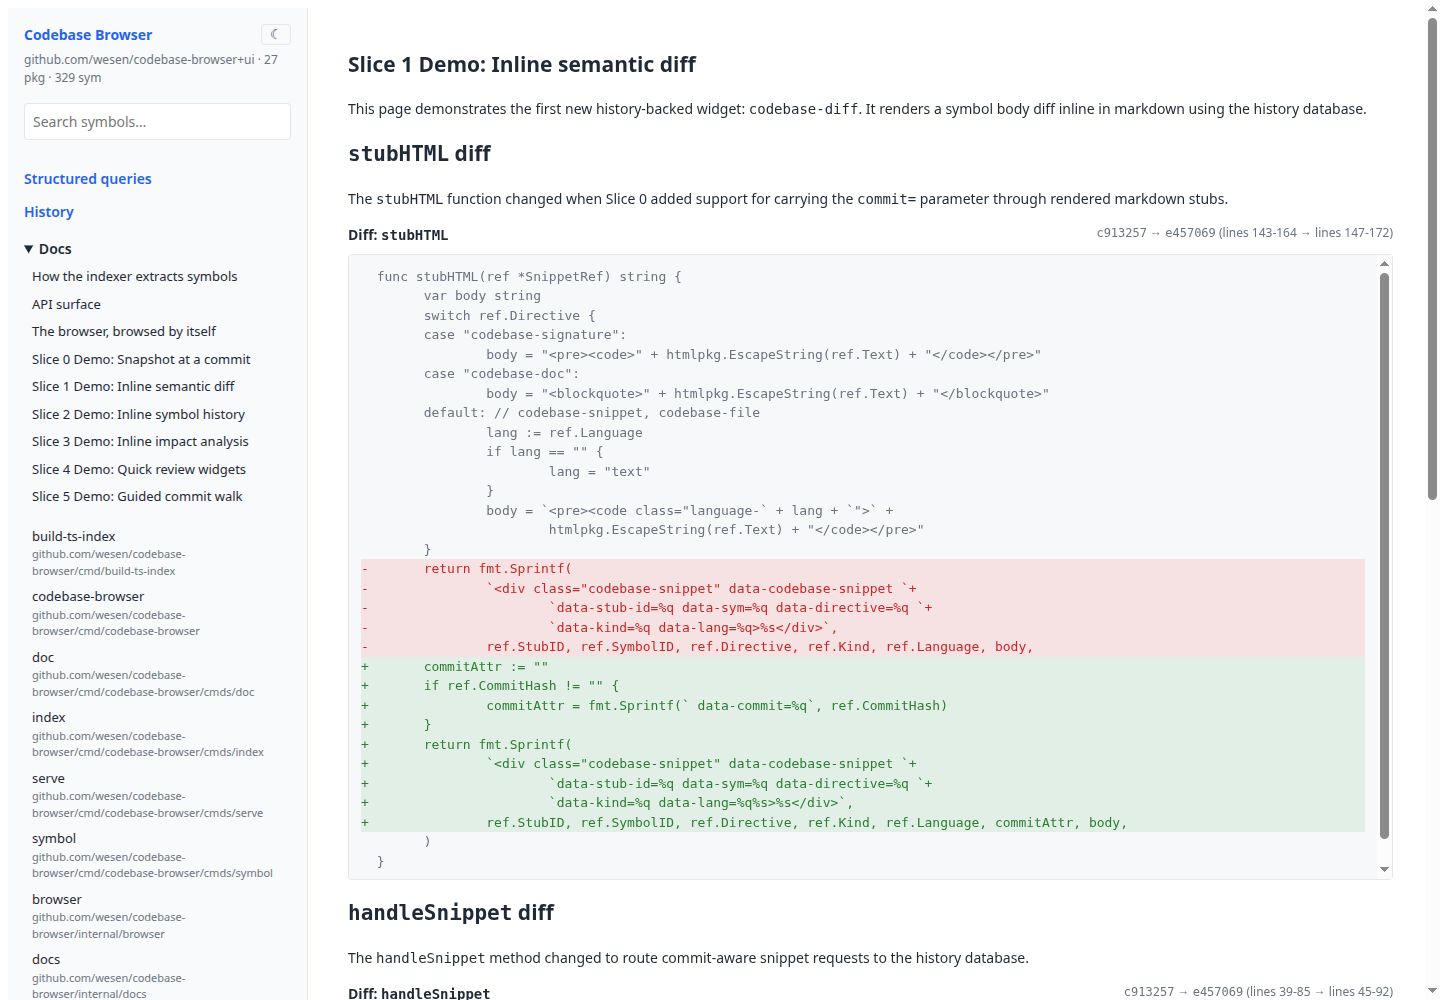
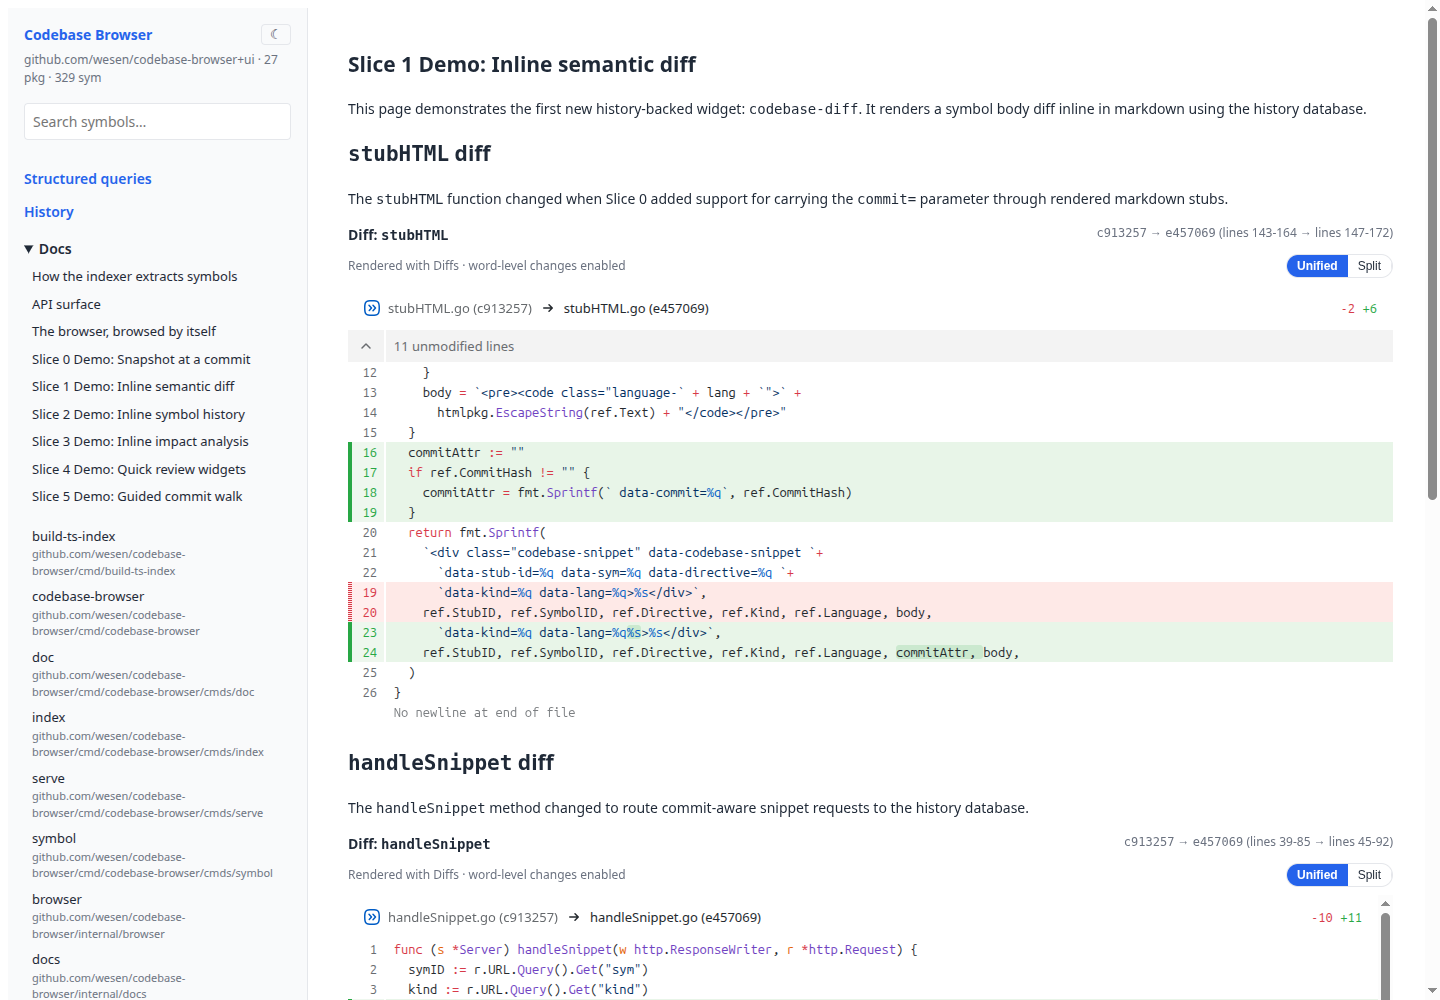
perf(ui): lazy load pierre diffs renderer
Move the @pierre/diffs import behind React.lazy so Shiki/Diffs are split out
of the initial app chunk and only loaded on pages that render diff widgets.

Also refresh README screenshots for the updated Diffs UI and document the
build impact and validation in the GCB-011 diary.

Changed region(s): [[0.2188, 0.248, 0.9688, 1.0], [0.6562, 0.341, 0.7188, 0.403], [0.5312, 0.465, 0.5938, 0.496]]

diff --git a/ui/src/features/diff/DiffsUnifiedDiff.tsx b/ui/src/features/diff/DiffsUnifiedDiff.tsx
@@ -1,6 +1,9 @@
 import React from 'react';
-import { MultiFileDiff } from '@pierre/diffs/react';
-import type { FileContents } from '@pierre/diffs/react';
+import type { DiffsUnifiedDiffRendererProps } from './DiffsUnifiedDiffRenderer';
+
+const LazyDiffsUnifiedDiffRenderer = React.lazy(() =>
+  import('./DiffsUnifiedDiffRenderer').then((mod) => ({ default: mod.DiffsUnifiedDiffRenderer })),
+);
 
 interface DiffsUnifiedDiffProps {
   name: string;
@@ -21,63 +24,21 @@ export function DiffsUnifiedDiff({
   newLabel,
   maxHeight = '60vh',
 }: DiffsUnifiedDiffProps) {
-  const [diffStyle, setDiffStyle] = React.useState<'unified' | 'split'>('unified');
-  const oldFile = React.useMemo<FileContents>(() => ({
-    name: oldLabel ? `${name} (${oldLabel})` : name,
-    contents: oldText,
-    lang: language,
-    cacheKey: oldLabel ? `${name}:${oldLabel}` : undefined,
-  }), [language, name, oldLabel, oldText]);
-
-  const newFile = React.useMemo<FileContents>(() => ({
-    name: newLabel ? `${name} (${newLabel})` : name,
-    contents: newText,
-    lang: language,
-    cacheKey: newLabel ? `${name}:${newLabel}` : undefined,
-  }), [language, name, newLabel, newText]);
+  const props: DiffsUnifiedDiffRendererProps = {
+    name,
+    oldText,
+    newText,
+    language,
+    oldLabel,
+    newLabel,
+    maxHeight,
+  };
 
   return (
-    <DiffsErrorBoundary fallback={<FallbackUnifiedDiff oldText={oldText} newText={newText} />}>
-      <div data-role="diffs-unified-diff">
-        <div style={{ display: 'flex', justifyContent: 'space-between', alignItems: 'center', gap: 12, marginBottom: 8, flexWrap: 'wrap' }}>
-          <span style={{ fontSize: 12, color: 'var(--cb-color-muted)' }}>
-            Rendered with Diffs · word-level changes enabled
-          </span>
-          <div role="group" aria-label="Diff layout" style={{ display: 'inline-flex', border: '1px solid var(--cb-color-border)', borderRadius: 999, overflow: 'hidden' }}>
-            <button
-              type="button"
-              onClick={() => setDiffStyle('unified')}
-              aria-pressed={diffStyle === 'unified'}
-              style={toggleButtonStyle(diffStyle === 'unified')}
-            >
-              Unified
-            </button>
-            <button
-              type="button"
-              onClick={() => setDiffStyle('split')}
-              aria-pressed={diffStyle === 'split'}
-              style={toggleButtonStyle(diffStyle === 'split')}
-            >
-              Split
-            </button>
-          </div>
-        </div>
-        <div style={{ maxHeight, overflow: 'auto' }}>
-          <MultiFileDiff
-            oldFile={oldFile}
-            newFile={newFile}
-            disableWorkerPool
-            options={{
-              diffStyle,
-              overflow: 'wrap',
-              theme: { light: 'github-light', dark: 'github-dark' },
-              themeType: 'system',
-              hunkSeparators: 'line-info-basic',
-              lineDiffType: 'word',
-            }}
-          />
-        </div>
-      </div>
+    <DiffsErrorBoundary fallback={<FallbackUnifiedDiff oldText={oldText} newText={newText} maxHeight={maxHeight} />}>
+      <React.Suspense fallback={<DiffLoading maxHeight={maxHeight} />}>
+        <LazyDiffsUnifiedDiffRenderer {...props} />
+      </React.Suspense>
     </DiffsErrorBoundary>
   );
 }
@@ -99,10 +60,18 @@ class DiffsErrorBoundary extends React.Component<React.PropsWithChildren<{ fallb
   }
 }
 
-function FallbackUnifiedDiff({ oldText, newText }: { oldText: string; newText: string }) {
+function DiffLoading({ maxHeight }: { maxHeight: string }) {
+  return (
+    <pre data-part="code-block" data-role="diff-loading" style={{ whiteSpace: 'pre-wrap', maxHeight, overflow: 'auto' }}>
+      <code>Loading Diffs renderer…</code>
+    </pre>
+  );
+}
+
+function FallbackUnifiedDiff({ oldText, newText, maxHeight }: { oldText: string; newText: string; maxHeight: string }) {
   const lines = simpleUnifiedDiff(oldText, newText);
   return (
-    <pre data-part="code-block" data-role="diff-fallback" style={{ whiteSpace: 'pre-wrap', maxHeight: '60vh', overflow: 'auto' }}>
+    <pre data-part="code-block" data-role="diff-fallback" style={{ whiteSpace: 'pre-wrap', maxHeight, overflow: 'auto' }}>
       <code>
         {lines.map((line, i) => {
           const style = line.startsWith('- ')
@@ -115,19 +84,6 @@ function FallbackUnifiedDiff({ oldText, newText }: { oldText: string; newText: s
       </code>
     </pre>
   );
-}
-
-function toggleButtonStyle(active: boolean): React.CSSProperties {
-  return {
-    border: 0,
-    borderRight: active ? 0 : '1px solid var(--cb-color-border)',
-    background: active ? 'var(--cb-color-accent, #2196f3)' : 'transparent',
-    color: active ? '#fff' : 'var(--cb-color-text)',
-    padding: '4px 10px',
-    cursor: 'pointer',
-    fontSize: 12,
-    fontWeight: active ? 700 : 400,
-  };
 }
 
 function simpleUnifiedDiff(oldText: string, newText: string): string[] {

diff --git a/ui/src/features/diff/DiffsUnifiedDiffRenderer.tsx b/ui/src/features/diff/DiffsUnifiedDiffRenderer.tsx
@@ -1,0 +1,94 @@
+import React from 'react';
+import { MultiFileDiff } from '@pierre/diffs/react';
+import type { FileContents } from '@pierre/diffs/react';
+
+export interface DiffsUnifiedDiffRendererProps {
+  name: string;
+  oldText: string;
+  newText: string;
+  language: string;
+  oldLabel?: string;
+  newLabel?: string;
+  maxHeight: string;
+}
+
+export function DiffsUnifiedDiffRenderer({
+  name,
+  oldText,
+  newText,
+  language,
+  oldLabel,
+  newLabel,
+  maxHeight,
+}: DiffsUnifiedDiffRendererProps) {
+  const [diffStyle, setDiffStyle] = React.useState<'unified' | 'split'>('unified');
+  const oldFile = React.useMemo<FileContents>(() => ({
+    name: oldLabel ? `${name} (${oldLabel})` : name,
+    contents: oldText,
+    lang: language,
+    cacheKey: oldLabel ? `${name}:${oldLabel}` : undefined,
+  }), [language, name, oldLabel, oldText]);
+
+  const newFile = React.useMemo<FileContents>(() => ({
+    name: newLabel ? `${name} (${newLabel})` : name,
+    contents: newText,
+    lang: language,
+    cacheKey: newLabel ? `${name}:${newLabel}` : undefined,
+  }), [language, name, newLabel, newText]);
+
+  return (
+    <div data-role="diffs-unified-diff">
+      <div style={{ display: 'flex', justifyContent: 'space-between', alignItems: 'center', gap: 12, marginBottom: 8, flexWrap: 'wrap' }}>
+        <span style={{ fontSize: 12, color: 'var(--cb-color-muted)' }}>
+          Rendered with Diffs · word-level changes enabled
+        </span>
+        <div role="group" aria-label="Diff layout" style={{ display: 'inline-flex', border: '1px solid var(--cb-color-border)', borderRadius: 999, overflow: 'hidden' }}>
+          <button
+            type="button"
+            onClick={() => setDiffStyle('unified')}
+            aria-pressed={diffStyle === 'unified'}
+            style={toggleButtonStyle(diffStyle === 'unified')}
+          >
+            Unified
+          </button>
+          <button
+            type="button"
+            onClick={() => setDiffStyle('split')}
+            aria-pressed={diffStyle === 'split'}
+            style={toggleButtonStyle(diffStyle === 'split')}
+          >
+            Split
+          </button>
+        </div>
+      </div>
+      <div style={{ maxHeight, overflow: 'auto' }}>
+        <MultiFileDiff
+          oldFile={oldFile}
+          newFile={newFile}
+          disableWorkerPool
+          options={{
+            diffStyle,
+            overflow: 'wrap',
+            theme: { light: 'github-light', dark: 'github-dark' },
+            themeType: 'system',
+            hunkSeparators: 'line-info-basic',
+            lineDiffType: 'word',
+          }}
+        />
+      </div>
+    </div>
+  );
+}
+
+function toggleButtonStyle(active: boolean): React.CSSProperties {
+  return {
+    border: 0,
+    borderRight: active ? 0 : '1px solid var(--cb-color-border)',
+    background: active ? 'var(--cb-color-accent, #2196f3)' : 'transparent',
+    color: active ? '#fff' : 'var(--cb-color-text)',
+    padding: '4px 10px',
+    cursor: 'pointer',
+    fontSize: 12,
+    fontWeight: active ? 700 : 400,
+  };
+}

diff --git a/ttmp/2026/04/25/GCB-011--adopt-diffs-library-for-nicer-semantic-diff-rendering/reference/01-investigation-diary.md b/ttmp/2026/04/25/GCB-011--adopt-diffs-library-for-nicer-semantic-diff-rendering/reference/01-investigation-diary.md
@@ -239,3 +239,88 @@ Playwright validation:
 ### Build/performance note
 
 The Vite build now emits many Shiki language/theme chunks and large bundle warnings. This is expected from the Diffs/Shiki integration but should be handled in Phase 4, likely by lazy-loading the Diffs wrapper or otherwise reducing initial bundle impact.
+
+## Step 5: Lazy-load Diffs and refresh README screenshots
+
+The user asked to continue and refresh screenshots. I focused on Phase 4 performance polish first, then regenerated the README screenshots from the updated UI.
+
+### Lazy-loading change
+
+The first Diffs integration statically imported `@pierre/diffs/react` in `DiffsUnifiedDiff.tsx`. That moved Diffs/Shiki into the main application chunk and made the build output show a very large initial bundle.
+
+I split the implementation into two files:
+
+- `ui/src/features/diff/DiffsUnifiedDiff.tsx`
+  - lightweight shell;
+  - owns the error boundary and fallback renderer;
+  - uses `React.lazy` / `Suspense` to load the real Diffs renderer only when a diff widget is actually mounted.
+- `ui/src/features/diff/DiffsUnifiedDiffRenderer.tsx`
+  - imports `@pierre/diffs/react`;
+  - owns `MultiFileDiff`, unified/split state, and Diffs options.
+
+This keeps the public local wrapper API stable while isolating the large third-party renderer behind a dynamic import.
+
+### Build impact
+
+Before lazy loading, the main app chunk was roughly:
+
+```text
+index-*.js  ~745 kB minified / ~225 kB gzip
+```
+
+After lazy loading:
+
+```text
+index-*.js                       ~342 kB minified / ~109 kB gzip
+DiffsUnifiedDiffRenderer-*.js    ~404 kB minified / ~117 kB gzip
+```
+
+The total code still exists, but it is no longer paid on first load for routes that do not render diffs.
+
+The build still emits large Shiki language/theme chunks, including a few >500 kB warnings. Those are now mostly lazy dependency chunks. Future work can investigate narrowing Shiki languages/themes or using more explicit Rollup chunking.
+
+### Screenshot refresh
+
+Regenerated README screenshots with Playwright at 1440×1000:
+
+- `docs/readme-assets/symbol-diff-widget.png`
+- `docs/readme-assets/symbol-history.png`
+- `docs/readme-assets/commit-walk.png`
+- `docs/readme-assets/impact-widget.png`
+
+Only the screenshots whose pixels changed are reported by git. The diff and history screenshots changed because the Diffs renderer is now visible there.
+
+### Validation
+
+Commands run:
+
+```bash
+pnpm -C ui run typecheck
+pnpm -C ui build
+go build -tags embed -o codebase-browser ./cmd/codebase-browser/
+go test ./internal/docs ./internal/server
+```
+
+Copied the built frontend into `internal/web/embed/public/` and restarted tmux server on `:3001`.
+
+Playwright validation:
+
+- `/#/doc/05-slice1-diff-demo`
+  - 2 Diffs wrappers;
+  - no loading placeholder remaining;
+  - no fallback renderer;
+  - Diffs Shadow DOM header present.
+- `/#/doc/09-slice5-commit-walk-demo`
+  - commit walk renders;
+  - no fallback renderer.
+- `/#/doc/07-slice3-impact-demo`
+  - impact demo still renders.
+- `/#/history?symbol=sym:...Server.handleSnippet`
+  - 1 Diffs wrapper;
+  - no fallback renderer;
+  - Diffs Shadow DOM header present.
+- `/#/doc/08-slice4-quick-wins-demo`
+  - annotation widget renders;
+  - 5 highlighted rows;
+  - review-note text is visible.
+- Browser console errors: 0.

diff --git a/ttmp/2026/04/25/GCB-011--adopt-diffs-library-for-nicer-semantic-diff-rendering/changelog.md b/ttmp/2026/04/25/GCB-011--adopt-diffs-library-for-nicer-semantic-diff-rendering/changelog.md
@@ -27,3 +27,15 @@ Implemented the first @pierre/diffs integration: added dependency, shared MultiF
 - /home/manuel/code/wesen/2026-04-19--go-codebase-browser/ui/src/features/doc/widgets/SymbolDiffInlineWidget.tsx — Uses shared Diffs wrapper
 - /home/manuel/code/wesen/2026-04-19--go-codebase-browser/ui/src/features/history/HistoryPage.tsx — Focused symbol body diff uses shared Diffs wrapper
 
+
+## 2026-04-25
+
+Phase 4 polish: lazy-loaded the Diffs renderer so @pierre/diffs/Shiki move out of the initial app chunk, documented build impact, refreshed README screenshots for the updated Diffs UI, and revalidated demos/routes with Playwright.
+
+### Related Files
+
+- /home/manuel/code/wesen/2026-04-19--go-codebase-browser/docs/readme-assets/symbol-diff-widget.png — Refreshed screenshot
+- /home/manuel/code/wesen/2026-04-19--go-codebase-browser/docs/readme-assets/symbol-history.png — Refreshed screenshot
+- /home/manuel/code/wesen/2026-04-19--go-codebase-browser/ui/src/features/diff/DiffsUnifiedDiff.tsx — Lightweight lazy-loading shell and fallback
+- /home/manuel/code/wesen/2026-04-19--go-codebase-browser/ui/src/features/diff/DiffsUnifiedDiffRenderer.tsx — Lazy-loaded @pierre/diffs renderer
+

diff --git a/ttmp/2026/04/25/GCB-011--adopt-diffs-library-for-nicer-semantic-diff-rendering/tasks.md b/ttmp/2026/04/25/GCB-011--adopt-diffs-library-for-nicer-semantic-diff-rendering/tasks.md
@@ -35,7 +35,8 @@
 
 ## Phase 4 — Follow-up polish / performance
 
-- [ ] Document theming/performance findings
-- [ ] Investigate dynamic import or lazy loading to reduce Diffs/Shiki initial bundle impact
+- [x] Document theming/performance findings
+- [x] Lazy-load the Diffs renderer to keep Diffs/Shiki out of the initial app chunk
+- [x] Refresh README screenshots after Diffs UI changes
 - [ ] Consider Diffs line annotations for a future richer `codebase-annotation`
 - [ ] Consider `PatchDiff` / `parsePatchFiles` for future full file or PR patch views
